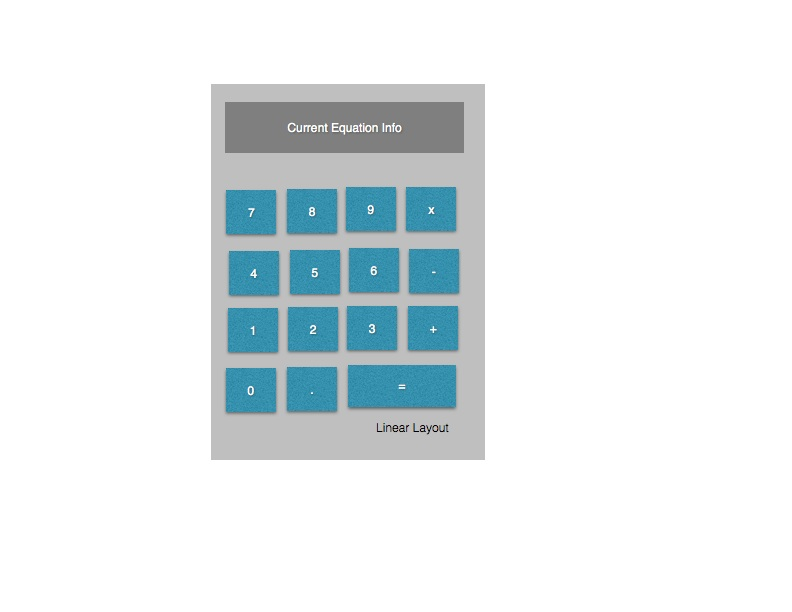
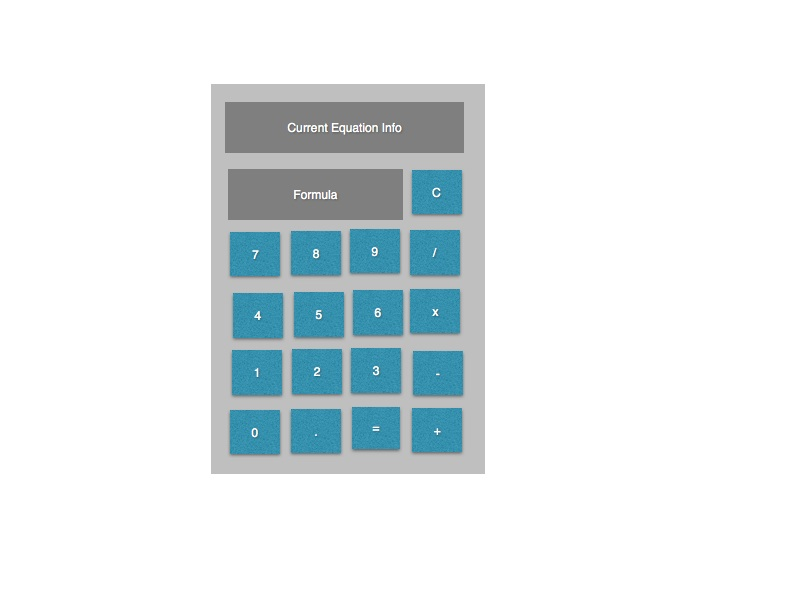
necessary commit

Changed region(s): [[0.2424, 0.2484, 0.6364, 0.7761]]

diff --git a/gen/com/nakhbari/simplecalculator/R.java b/gen/com/nakhbari/simplecalculator/R.java
@@ -1294,7 +1294,7 @@ containing a value of this type.
         public static final int action_menu_divider=0x7f050027;
         public static final int action_menu_presenter=0x7f050028;
         public static final int action_mode_close_button=0x7f050035;
-        public static final int action_settings=0x7f050064;
+        public static final int action_settings=0x7f050060;
         public static final int activity_chooser_view_content=0x7f050036;
         public static final int alignBounds=0x7f050002;
         public static final int alignMargins=0x7f050003;
@@ -1343,10 +1343,6 @@ containing a value of this type.
         public static final int ifRoom=0x7f05001c;
         public static final int image=0x7f050038;
         public static final int left=0x7f050006;
-        public static final int linear_layout_container_0=0x7f050063;
-        public static final int linear_layout_container_123=0x7f050062;
-        public static final int linear_layout_container_456=0x7f050061;
-        public static final int linear_layout_container_789=0x7f050060;
         public static final int listMode=0x7f050013;
         public static final int list_item=0x7f05003a;
         public static final int middle=0x7f050024;
@@ -1375,11 +1371,11 @@ containing a value of this type.
         public static final int start=0x7f050010;
         public static final int submit_area=0x7f05004a;
         public static final int tabMode=0x7f050014;
-        public static final int textview_output=0x7f05005f;
         public static final int title=0x7f05003c;
         public static final int top=0x7f050004;
         public static final int top_action_bar=0x7f050031;
         public static final int tvInputEquation=0x7f05004e;
+        public static final int tvResultingFormula=0x7f05005f;
         public static final int up=0x7f050032;
         public static final int useLogo=0x7f050015;
         public static final int vertical=0x7f050001;
